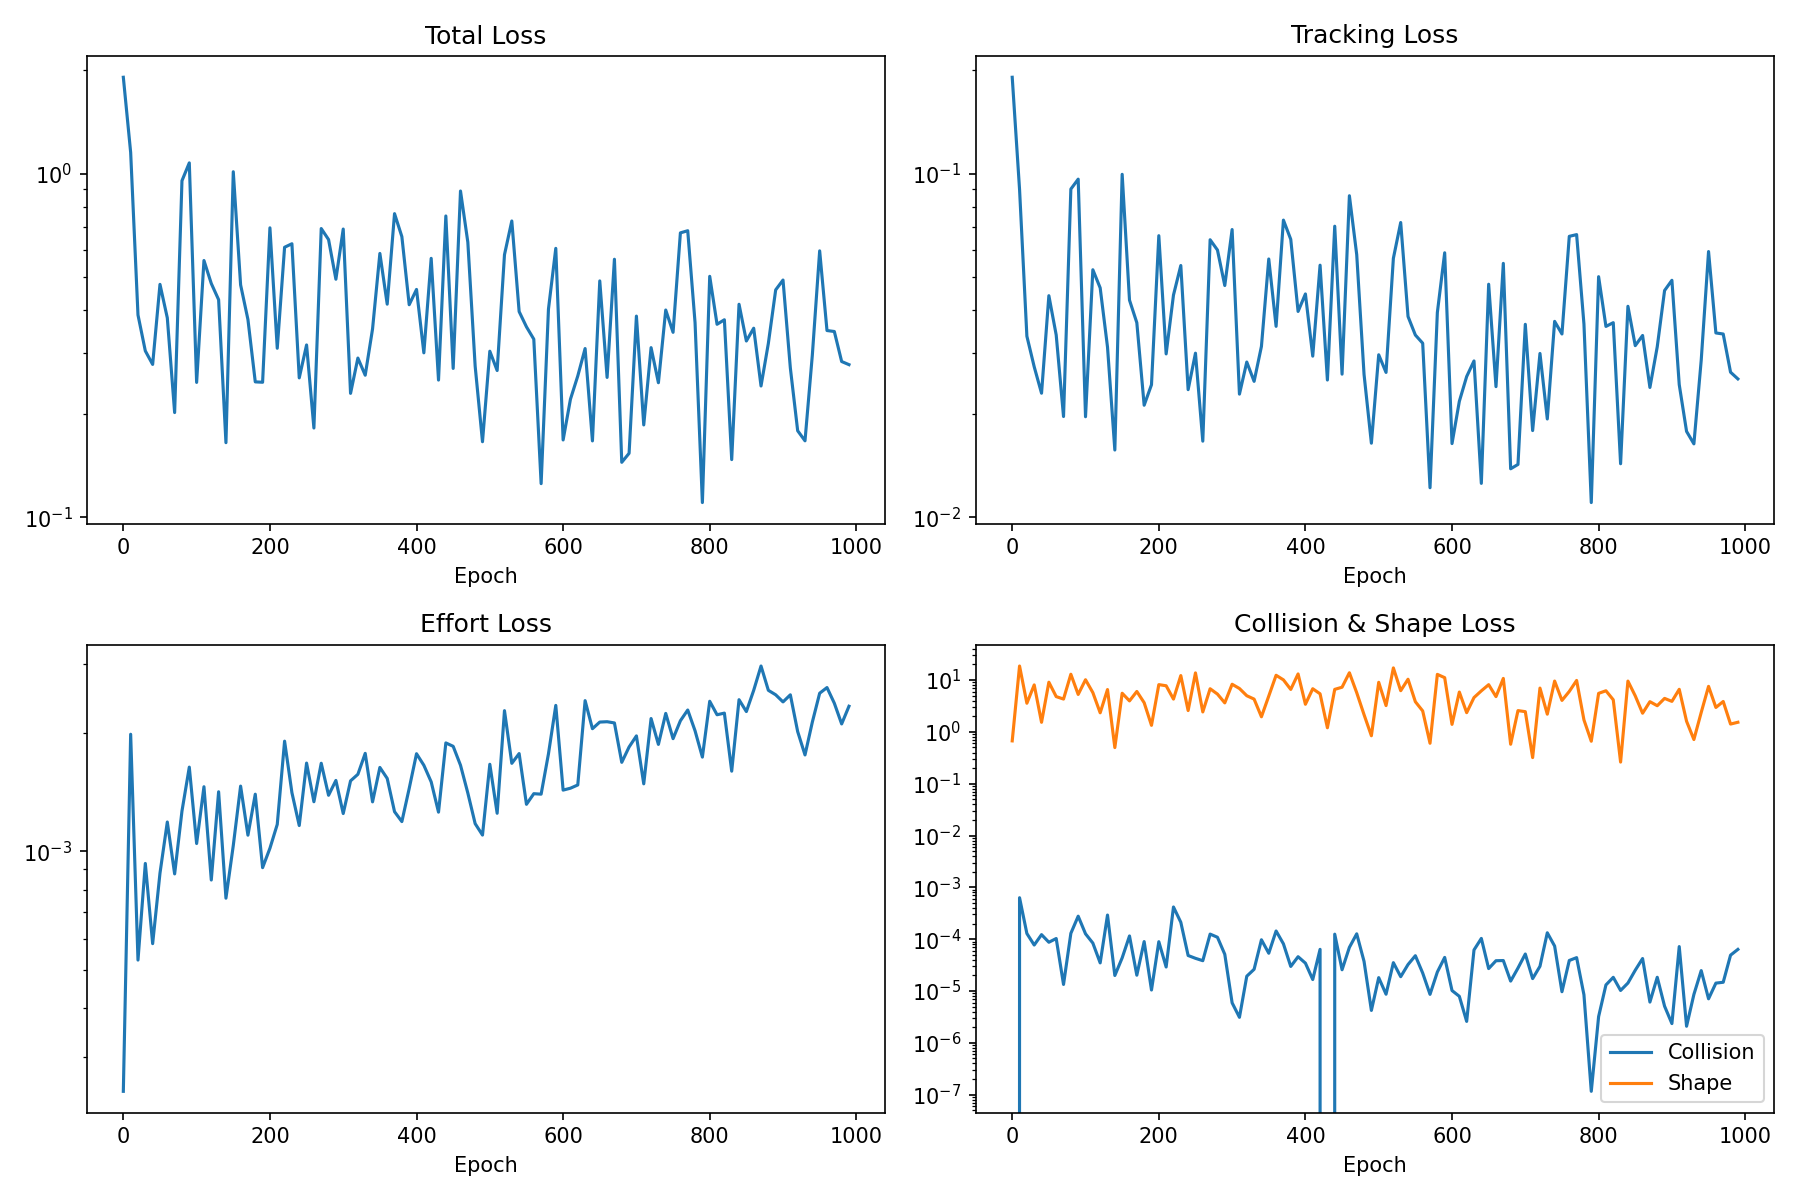
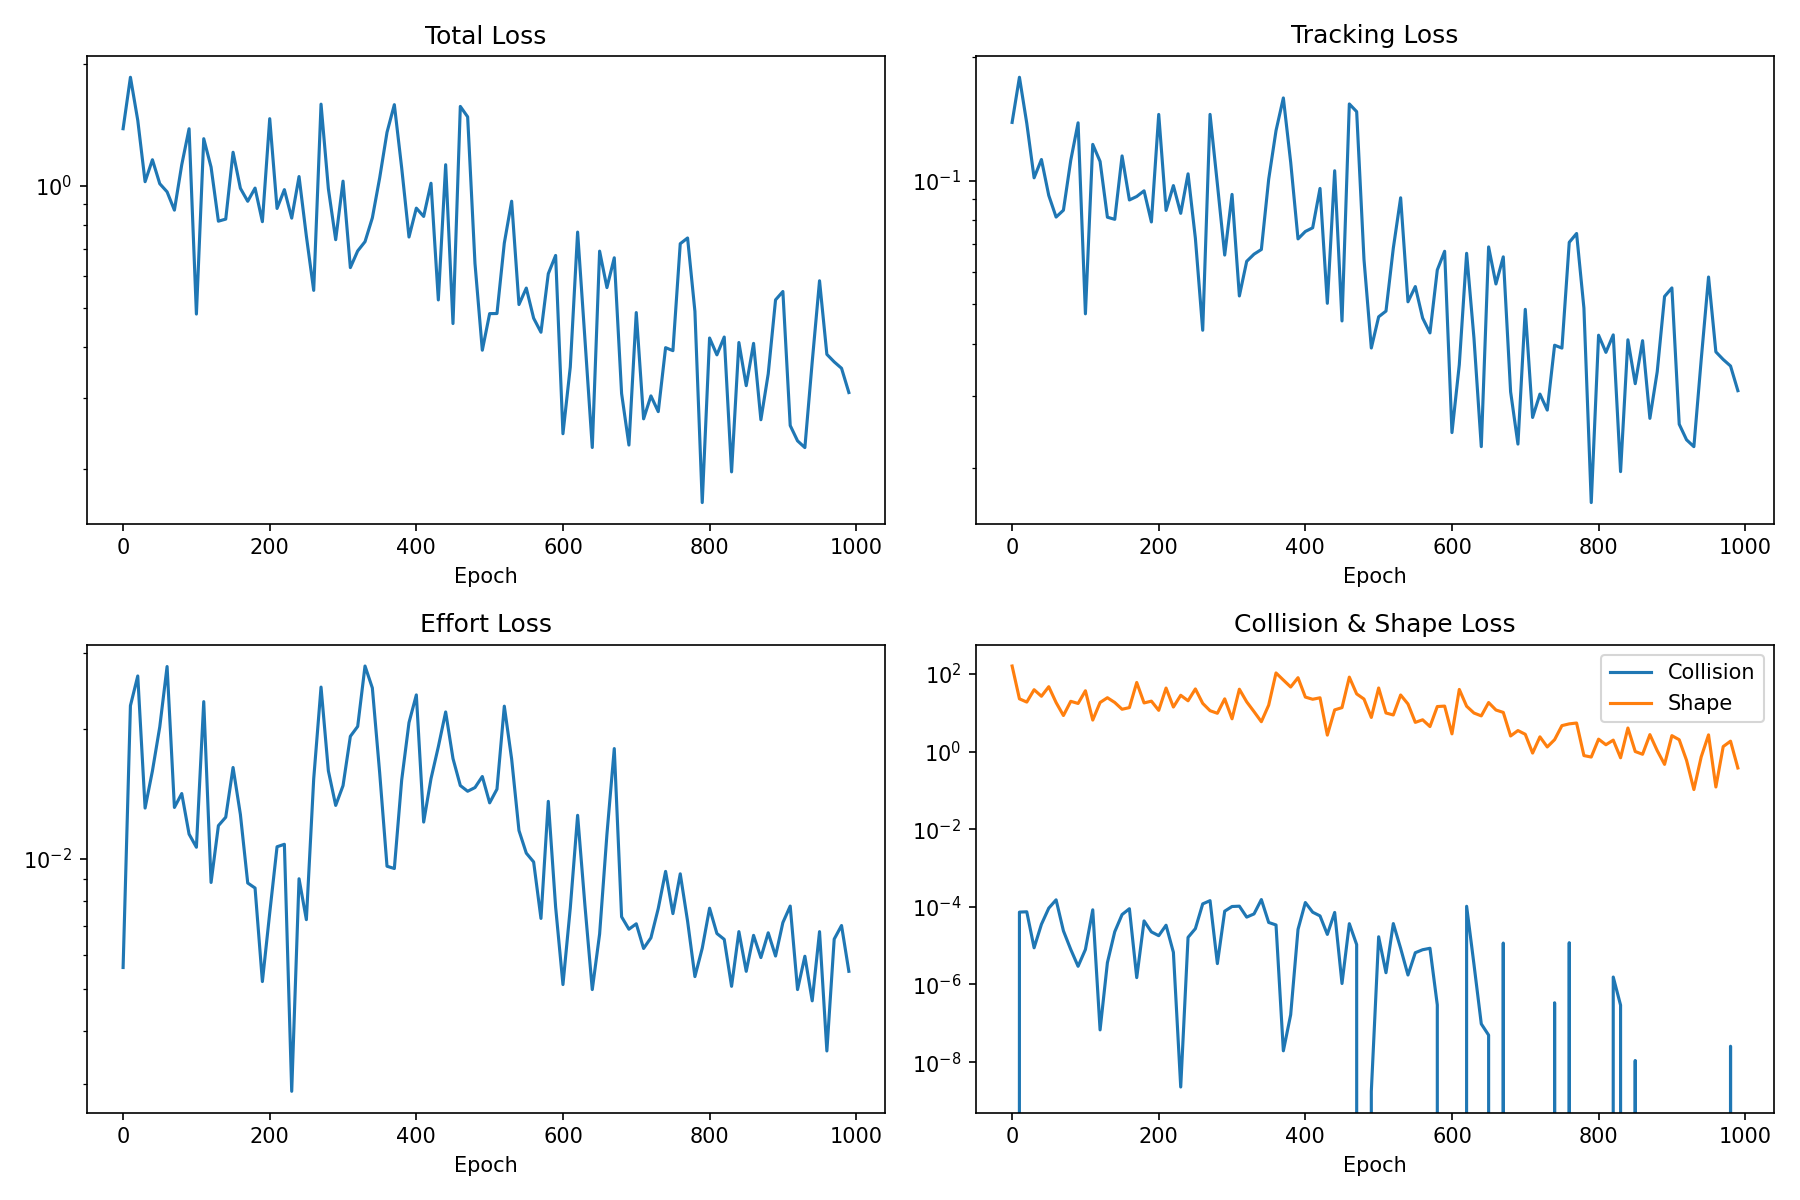
Clean up ns2d codebase: remove unused code
- Remove create_inflow_field (unused in fan-only mode)
- Remove unroll_with_loss legacy function (broken)
- Remove commented-out reflective boundary code
- Update test section to use unroll_controlled
- Update trained model and visualization outputs

diff --git a/examples/ns2d/centralized/dynamics.py b/examples/ns2d/centralized/dynamics.py
@@ -26,32 +26,6 @@ from phi.jax.flow import *
 # JAX-Compatible NS2D Step Function
 # =============================================================================
 
-def create_inflow_field(
-    xi: jnp.ndarray,           # Agent positions (n_agents, 2) in [0,1] normalized coords
-    intensities: jnp.ndarray,  # Injection intensities (n_agents,)
-    Nx: int,
-    Ny: int,
-    sigma: float = 0.05
-) -> jnp.ndarray:
-    """
-    Create smoke inflow field from Gaussian agents (JAX-compatible).
-    
-    Returns: Inflow field (Nx, Ny)
-    """
-    # Grid coordinates in normalized space [0,1] x [0, Ly/Lx]
-    x = jnp.linspace(0, 1, Nx)
-    y = jnp.linspace(0, 1.25, Ny)  # Domain aspect ratio
-    X, Y = jnp.meshgrid(x, y, indexing='ij')
-    
-    def single_agent_kernel(pos, intensity):
-        dist_sq = (X - pos[0])**2 + (Y - pos[1])**2
-        kernel = jnp.exp(-dist_sq / (2 * sigma**2))
-        return intensity * kernel
-    
-    # Vectorized over agents
-    inflows = jax.vmap(single_agent_kernel)(xi, intensities)
-    return jnp.sum(inflows, axis=0)
-
 
 def create_velocity_field(
     xi: jnp.ndarray,           # Agent positions (n_agents, 2)
@@ -142,13 +116,19 @@ def ns2d_step_jax(
     sigma_push: float = 0.2,      # Wide influence
     Nx: int = 64,
     Ny: int = 80,
-    advect_strength: float = 0.3  # How strongly fans push (0-1)
+    advect_strength: float = 0.3,  # How strongly fans push (0-1)
+    natural_advection: float = 0.003,  # Background upward drift velocity
+    diffusion_coef: float = 0.01      # Diffusion coefficient for spreading
 ) -> jnp.ndarray:
     """
     NS2D step with semi-Lagrangian advection for stability.
     
     Uses backtracing with bilinear interpolation for stable advection.
     Boundary conditions: zero-flux (Neumann).
+    
+    Natural dynamics: Even without control, smoke will:
+    - Drift upward naturally (like hot smoke rising)
+    - Diffuse/spread over time
     """
     # 1. Fan-only mode: No injection (intensities are always zero)
     # The inflow step is skipped for stability in fan-only control
@@ -156,17 +136,23 @@ def ns2d_step_jax(
     # 2. Create velocity field from agent push controls
     u_control, v_control = create_velocity_field(xi, push_velocities, Nx, Ny, sigma_push)
     
-    # 3. Add weak buoyancy
-    v_total = v_control + buoyancy * smoke
-    u_total = u_control
+    # 3. Add NATURAL background advection (upward drift like buoyancy/convection)
+    # This makes uncontrolled evolution interesting - smoke rises naturally
+    v_natural = jnp.ones((Nx, Ny)) * natural_advection
+    u_natural = jnp.zeros((Nx, Ny))  # No horizontal drift by default
     
-    # Scale velocities by advect_strength for controllable pushing
-    # Use a MUCH smaller advect_strength to prevent smoke from disappearing
-    effective_advect = advect_strength * 0.1  # Reduce by 10x
-    u_total = u_total * effective_advect
-    v_total = v_total * effective_advect
+    # 4. Add weak buoyancy (density-dependent upward flow)
+    v_buoyancy = buoyancy * smoke
     
-    # 4. Semi-Lagrangian advection (stable for any CFL)
+    # 5. Combine all velocity components
+    u_total = u_control + u_natural
+    v_total = v_control + v_natural + v_buoyancy
+    
+    # Apply control with full strength (advect_strength scales control authority)
+    u_total = u_control * advect_strength + u_natural
+    v_total = v_control * advect_strength + v_natural + v_buoyancy
+    
+    # 6. Semi-Lagrangian advection (stable for any CFL)
     # Create grid coordinates
     ix = jnp.arange(Nx)
     iy = jnp.arange(Ny)
@@ -179,8 +165,9 @@ def ns2d_step_jax(
     u_grid = u_total * (Nx - 1)  # Convert to grid units
     v_grid = v_total * (Ny - 1) / 1.25  # Account for aspect ratio
     
-    # CFL limiter: clamp max displacement to 0.5 grid cells per timestep
-    # This prevents smoke from being advected too aggressively
+
+    # CFL limiter: clamp max displacement per timestep
+    # Relaxed to allow stronger control authority
     max_cfl = 0.5
     displacement_mag = jnp.sqrt(u_grid**2 + v_grid**2)
     scale_factor = jnp.where(displacement_mag > max_cfl, 
@@ -196,22 +183,30 @@ def ns2d_step_jax(
     # Sample smoke from source locations (with clamped boundaries)
     smoke_advected = bilinear_sample(smoke, X_src, Y_src)
     
-    # 5. Minimal diffusion for smoothing (optional, can be disabled)
-    # Using a conservative kernel that sums to 1.0
-    kernel = jnp.array([[0.002, 0.004, 0.002],
-                        [0.004, 0.976, 0.004],
-                        [0.002, 0.004, 0.002]])
+    # 7. Diffusion - spreads smoke over time (Gaussian kernel convolution)
+    # Larger diffusion_coef = more spreading
+    # Kernel is parameterized by diffusion coefficient
+    center_weight = 1.0 - 4 * diffusion_coef
+    edge_weight = diffusion_coef
+    kernel = jnp.array([[0.0, edge_weight, 0.0],
+                        [edge_weight, center_weight, edge_weight],
+                        [0.0, edge_weight, 0.0]])
     from jax.scipy.signal import convolve2d
     smoke_new = convolve2d(smoke_advected, kernel, mode='same')
     
-    # 6. Enforce zero-flux boundaries by copying edge values
-    # This prevents smoke from "leaking" out
-    smoke_new = smoke_new.at[0, :].set(smoke_new[1, :])
-    smoke_new = smoke_new.at[-1, :].set(smoke_new[-2, :])
-    smoke_new = smoke_new.at[:, 0].set(smoke_new[:, 1])
-    smoke_new = smoke_new.at[:, -1].set(smoke_new[:, -2])
+    # 8. NO-FLOW BOUNDARIES: Enforce zero-flux (Neumann) with multi-cell buffer
+    # Copy edge values to prevent smoke from leaking out
+    # Use 2-cell buffer for stability
+    smoke_new = smoke_new.at[0, :].set(smoke_new[2, :])
+    smoke_new = smoke_new.at[1, :].set(smoke_new[2, :])
+    smoke_new = smoke_new.at[-1, :].set(smoke_new[-3, :])
+    smoke_new = smoke_new.at[-2, :].set(smoke_new[-3, :])
+    smoke_new = smoke_new.at[:, 0].set(smoke_new[:, 2])
+    smoke_new = smoke_new.at[:, 1].set(smoke_new[:, 2])
+    smoke_new = smoke_new.at[:, -1].set(smoke_new[:, -3])
+    smoke_new = smoke_new.at[:, -2].set(smoke_new[:, -3])
     
-    # 7. Clip to valid range (smoke density must be non-negative)
+    # 9. Clip to valid range (smoke density must be non-negative)
     smoke_new = jnp.clip(smoke_new, 0, 5)
     
     return smoke_new
@@ -368,9 +363,8 @@ def unroll_with_full_loss(
             sigma_push=sigma_push, Nx=Nx, Ny=Ny
         )
         
-        # Mobile agents: move in push direction (agents follow their push)
-        # Reduced speed factor (0.1 instead of 0.5) to prevent boundary piling
-        xi_new = xi + dt * push_vel * 0.1
+        # Mobile agents: move slowly in push direction
+        xi_new = xi + dt * push_vel * 0.01
         xi_new = jnp.clip(xi_new, domain_margin, jnp.array([1.0 - domain_margin, 1.25 - domain_margin]))
         
         return (smoke_new, xi_new), (smoke_new, xi_new, intensities, push_vel)
@@ -395,10 +389,10 @@ def unroll_with_full_loss(
     # vmap over time dimension to get loss at each timestep
     track_losses = jax.vmap(tracking_loss_at_t)(smoke_traj)  # (T,)
     
-    # Mean over time + extra weight on final timestep for terminal accuracy
+    # Uniform sum over time (reach + hold objective) + terminal for stability
     l_track_mean = jnp.mean(track_losses)
     l_track_terminal = compute_smooth_loss(smoke_final, rho_target)
-    l_track = 0.5 * l_track_mean + 0.5 * l_track_terminal  # Balance running + terminal
+    l_track = l_track_mean + 1.0 * l_track_terminal  # Equal weighting for stability
     
     # 2. Effort loss (already accumulated)
     l_effort = jnp.mean(u_traj ** 2) + 0.1 * jnp.mean(jnp.sum(v_traj ** 2, axis=-1))
@@ -429,30 +423,6 @@ def unroll_with_full_loss(
     return smoke_final, xi_final, l_track, l_effort, l_bound, l_coll, l_accel, l_shape
 
 
-# Legacy function for backward compatibility
-@partial(jax.jit, static_argnames=['policy_apply_fn', 't_steps', 'Nx', 'Ny'])
-def unroll_with_loss(
-    smoke_init: jnp.ndarray,
-    xi_init: jnp.ndarray,
-    rho_target: jnp.ndarray,
-    params,
-    policy_apply_fn: Callable,
-    t_steps: int,
-    Nx: int = 64,
-    Ny: int = 80,
-    dt: float = 1.0,
-    buoyancy: float = 0.5,
-    sigma: float = 0.05,
-    u_max: float = 1.0,
-    v_max: float = 0.1
-) -> Tuple[jnp.ndarray, jnp.ndarray, float, float]:
-    """Legacy wrapper - returns only track and effort losses."""
-    smoke_final, xi_final, l_track, l_effort, _, _, _ = unroll_with_full_loss(
-        smoke_init, xi_init, rho_target, params, policy_apply_fn, t_steps,
-        Nx=Nx, Ny=Ny, n_agents=xi_init.shape[0], dt=dt, buoyancy=buoyancy,
-        sigma=sigma, u_max=u_max, v_max=v_max
-    )
-    return smoke_final, xi_final, l_track, l_effort
 
 
 @partial(jax.jit, static_argnames=['policy_apply_fn', 't_steps', 'Nx', 'Ny'])
@@ -500,9 +470,8 @@ def unroll_controlled(
             sigma_push=sigma_push, Nx=Nx, Ny=Ny
         )
         
-        # Mobile agents: move in push direction
-        # Reduced speed factor (0.1 instead of 0.5) to prevent boundary piling
-        xi_new = xi + dt * push_vel * 0.1
+        # Mobile agents: move slowly in push direction
+        xi_new = xi + dt * push_vel * 0.01
         xi_new = jnp.clip(xi_new, 0.1, jnp.array([0.9, 1.15]))
         
         return (smoke_new, xi_new), (smoke_new, xi_new, intensities, push_vel)
@@ -528,24 +497,22 @@ if __name__ == "__main__":
     n_agents = 4
     t_steps = 50
     
-    # Dummy policy (zero control)
+    # Dummy policy (zero control - fan only)
     def dummy_policy(params, smoke, target, xi):
-        n_agents = xi.shape[0]
-        return jnp.ones(n_agents) * 0.5, jnp.zeros((n_agents, 2))
+        n = xi.shape[0]
+        return jnp.zeros(n), jnp.zeros((n, 2))  # No injection, no push
     
     # Initial conditions
-    key = jax.random.PRNGKey(42)
     smoke_init = jnp.zeros((Nx, Ny))
     xi_init = jnp.array([[0.25, 0.1], [0.4, 0.1], [0.6, 0.1], [0.75, 0.1]])
     rho_target = jnp.zeros((Nx, Ny))
     
-    # Test rollout
-    smoke_final, xi_final, l_track, l_effort = unroll_with_loss(
+    # Test rollout using unroll_controlled
+    smoke_traj, xi_traj, u_traj, v_traj = unroll_controlled(
         smoke_init, xi_init, rho_target, None, dummy_policy, t_steps,
         Nx=Nx, Ny=Ny
     )
     
-    print(f"Smoke final range: [{float(smoke_final.min()):.3f}, {float(smoke_final.max()):.3f}]")
-    print(f"Tracking loss: {float(l_track):.4f}")
-    print(f"Effort loss: {float(l_effort):.4f}")
+    print(f"Smoke trajectory shape: {smoke_traj.shape}")
+    print(f"Smoke range: [{float(smoke_traj.min()):.3f}, {float(smoke_traj.max()):.3f}]")
     print("Done!")

diff --git a/examples/ns2d/centralized/train.py b/examples/ns2d/centralized/train.py
@@ -37,7 +37,7 @@ from models.policy_ns2d import NS2DControlNet
 # Grid/physics from config (loaded at runtime)
 # These are set as module constants for sharing with visualize.py
 N_AGENTS = 9         # 4x4 grid of stationary agents
-T_STEPS = 100         # Simulation horizon
+T_STEPS = 150         # Simulation horizon
 BATCH_SIZE = 2        # Reduced for memory
 EPOCHS = 1000
 
@@ -48,7 +48,7 @@ SIGMA_PUSH = 0.2      # Wide push influence
 
 # Control limits
 U_MAX = 1.0           # Max injection intensity
-PUSH_MAX = 0.2        # Max push velocity (new!)
+PUSH_MAX = 0.8       # Max push velocity (new!)
 FEATURES = (16, 32)   # CNN feature channels
 
 # Loss weights (tuned for blob transport)
@@ -58,9 +58,9 @@ W_SHAPE = 0.0         # Shape matching - DISABLED
 # Constraints: prevent bad behavior
 W_EFFORT = 0.001      # Effort regularization (keep controls reasonable)
 W_BOUND = 20.0        # Boundary penalty (agents stay in domain)
-W_COLL = 400.0         # Collision avoidance (agents don't overlap)
+W_COLL = 1000.0       # Collision avoidance - STRONG to prevent collapse
 W_ACCEL = 0.05        # Acceleration smoothness (smooth control signals)
-R_SAFE = 0.08         # Collision radius
+R_SAFE = 0.15         # Collision radius - increased for 9 agents
 
 
 # =============================================================================

diff --git a/examples/ns2d/centralized/visualize_paper.py b/examples/ns2d/centralized/visualize_paper.py
@@ -378,7 +378,7 @@ def main():
     
     # Load config
     data_dir = Path(__file__).parent.parent / 'data'
-    config = np.load(data_dir / 'config.npz')
+    config = np.load(data_dir / 'config.npz', allow_pickle=True)
     Nx = int(config['Nx'])
     Ny = int(config['Ny'])
     dt = float(config['dt'])
@@ -387,7 +387,7 @@ def main():
     print(f"\nGrid: {Nx}x{Ny}, Agents: {n_agents}")
     
     # Load test data
-    test_data = np.load(data_dir / 'test_data.npz')
+    test_data = np.load(data_dir / 'test_data.npz', allow_pickle=True)
     
     # Load model
     model = NS2DControlNet(features=FEATURES, v_max=PUSH_MAX)
@@ -469,7 +469,7 @@ def main():
             sample_idx=sample_idx,
             output_gif=str(save_dir / f'ns2d_sample_{sample_idx+1}.gif'),
             output_mp4=str(save_dir / f'ns2d_sample_{sample_idx+1}.mp4'),
-            fps=10, skip_frames=5
+            fps=9, skip_frames=2
         )
     
     # Print summary
